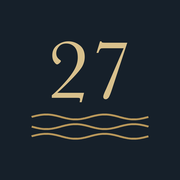
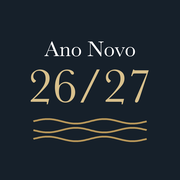
Ícone e nome do app: Ano Novo 26/27

diff --git a/index.html b/index.html
@@ -7,7 +7,7 @@
 <meta name="description" content="Planejamento de uma viagem em grupo: cardápio, compras e o que levar.">
 <meta name="theme-color" content="#16202A">
 <meta name="mobile-web-app-capable" content="yes">
-<meta name="apple-mobile-web-app-title" content="Ano Novo">
+<meta name="apple-mobile-web-app-title" content="Ano Novo 26/27">
 <meta name="apple-mobile-web-app-status-bar-style" content="black-translucent">
 <link rel="manifest" href="manifest.webmanifest">
 <link rel="icon" type="image/png" sizes="192x192" href="icon-192.png">
